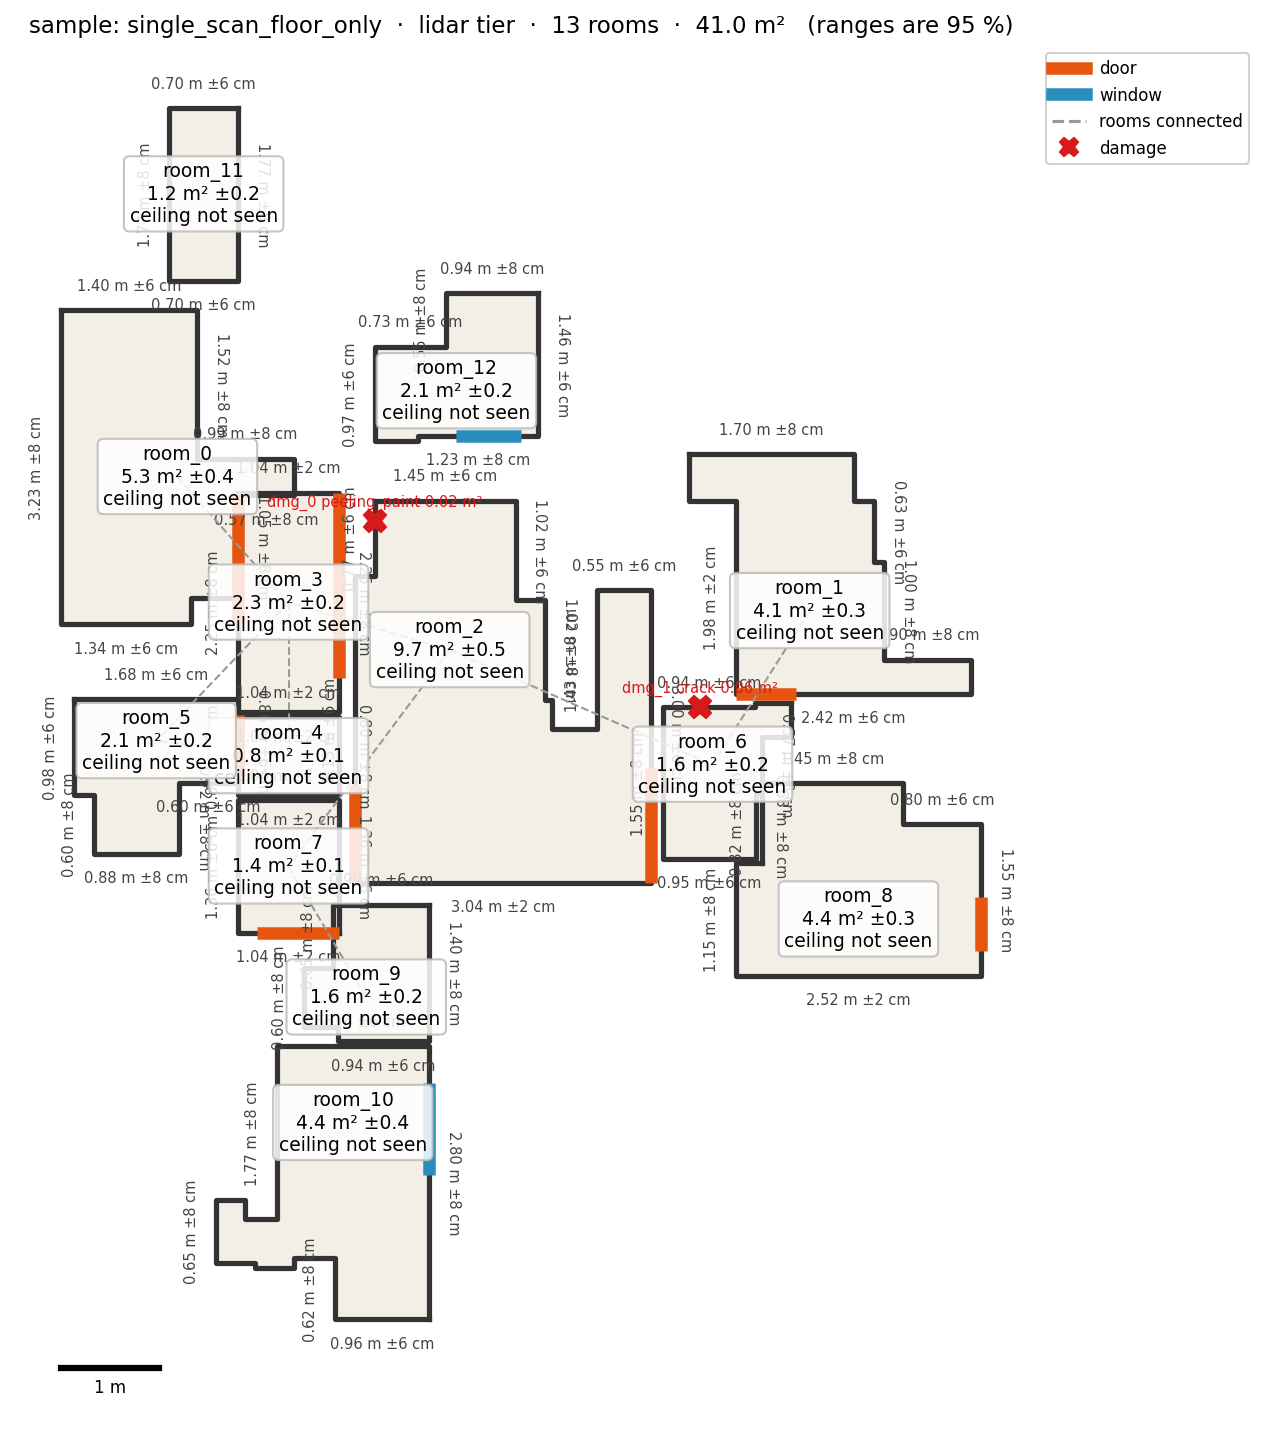
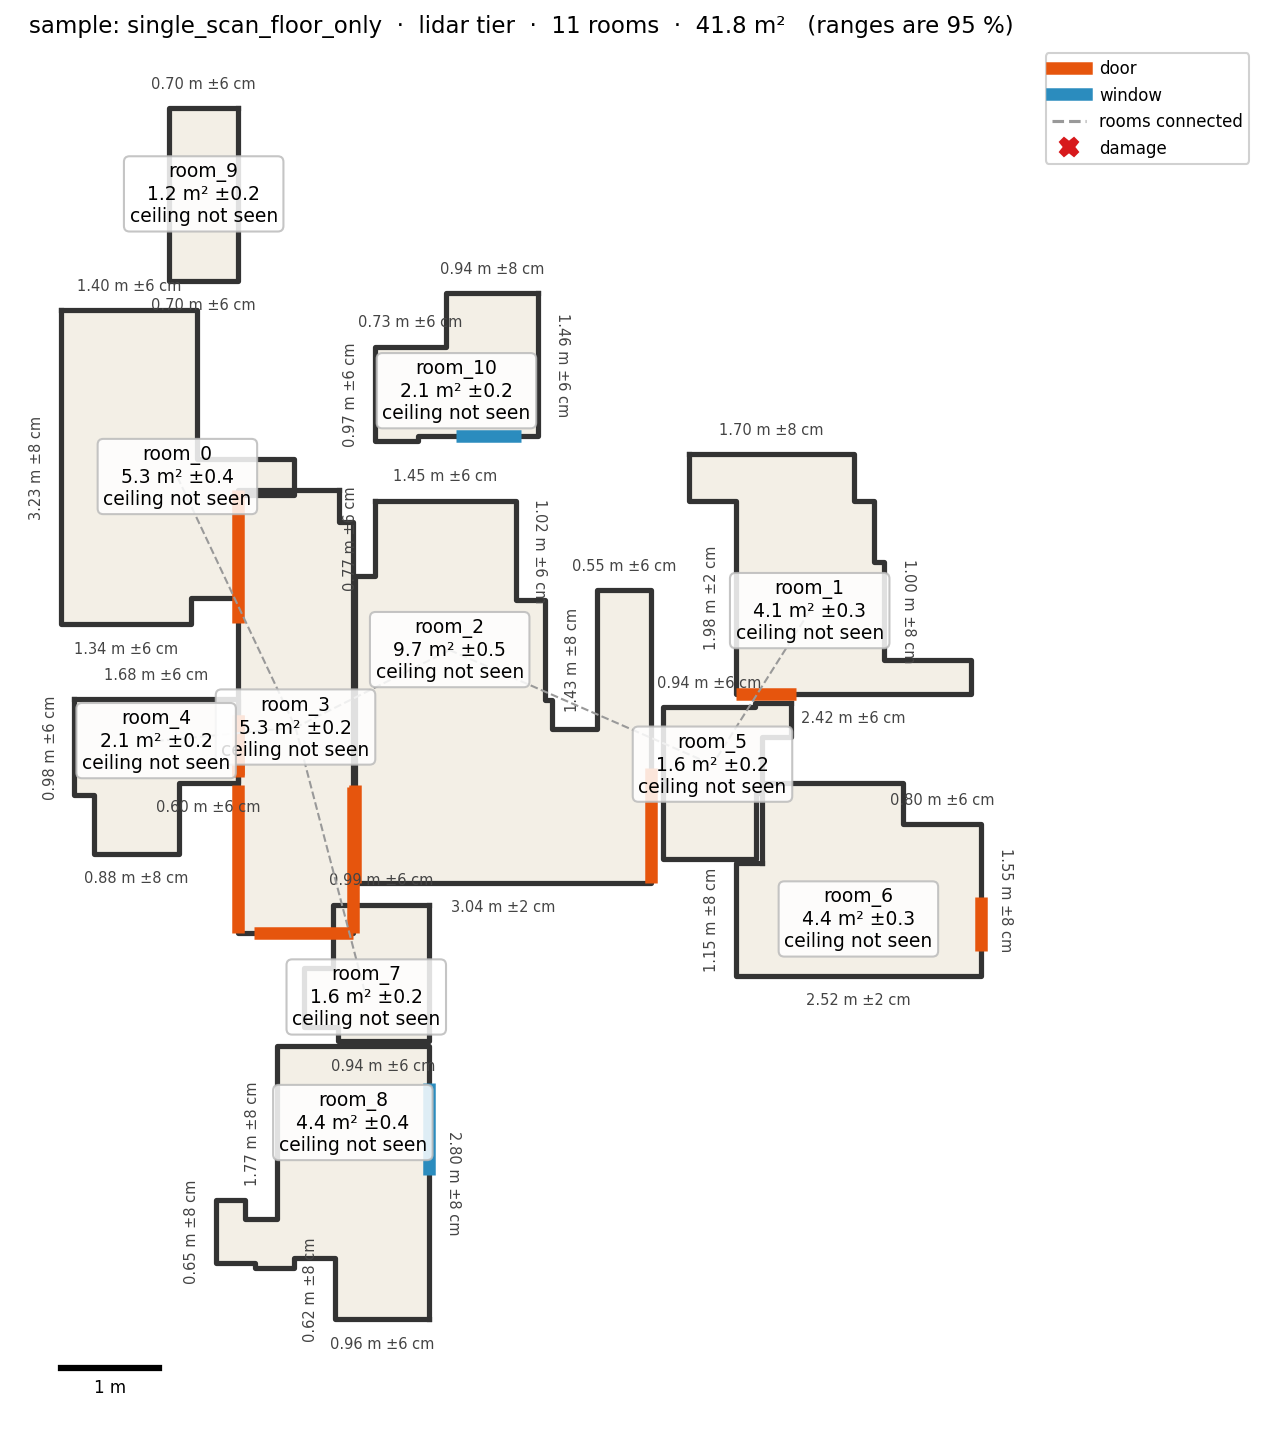
Room splitting: keep a corridor narrowed by a cupboard as one room (sample floor_only 13 -> 11 rooms)

diff --git a/roomscan/split_rooms.py b/roomscan/split_rooms.py
@@ -56,6 +56,7 @@ def split_rooms(classes, angle, cell=0.05, core=0.45, min_area=1.0, small_area=0
     cv2.watershed(cv2.cvtColor(free * 255, cv2.COLOR_GRAY2BGR), markers)
     rooms = [(markers == k) & (free > 0) for k in range(1, n)]
     rooms = _merge_open(rooms, merge_len, cell)
+    rooms = _merge_corridor(rooms, cell)
     rooms = _grow_to_walls([_fill_holes(m) for m in rooms], grow=2)
     keep = []
     for m in rooms:
@@ -83,6 +84,51 @@ def _grow_to_walls(rooms, grow):
         taken |= g
         out.append(g)
     return out
+
+
+CORRIDOR_WIDTH = 1.1      # m: a piece narrower than this (widest inscribed circle, before the wall band is given back) is corridor-like
+CORRIDOR_JOIN = 0.7       # two corridor-like pieces touching along this share of the wider one's width are one space
+
+
+def _width(mask, cell):
+    padded = np.pad(mask.astype(np.uint8), 1)              # the grid edge counts as outside the piece
+    return cv2.distanceTransform(padded, cv2.DIST_L2, 5).max() * cell * 2
+
+
+def _contact_length(band, cell):
+    """Length of the strip where two pieces touch: the long side of its tightest rotated box."""
+    ys, xs = np.nonzero(band)
+    if len(xs) < 3:
+        return 0.0
+    (_, _), (w, h), _ = cv2.minAreaRect(np.c_[xs, ys].astype(np.float32))
+    return (max(w, h) + 1) * cell
+
+
+def _merge_corridor(rooms, cell):
+    """A corridor narrowed by a cupboard or pillar is cut by the watershed into segments that meet along their
+    full width. A real door is narrower than the spaces it joins (a WC door is much narrower than the corridor it
+    opens onto), so two pieces are merged only when both are corridor-narrow and they touch along most of the
+    wider one's width."""
+    k = np.ones((5, 5), np.uint8)
+    merged = True
+    while merged:
+        merged = False
+        widths = [_width(m, cell) for m in rooms]
+        for i in range(len(rooms)):
+            if widths[i] >= CORRIDOR_WIDTH:
+                continue
+            grown = cv2.dilate(rooms[i].astype(np.uint8), k) > 0
+            for j in range(i + 1, len(rooms)):
+                if widths[j] >= CORRIDOR_WIDTH:
+                    continue
+                if _contact_length(grown & rooms[j], cell) >= CORRIDOR_JOIN * max(widths[i], widths[j]):
+                    rooms[i] = rooms[i] | rooms[j]
+                    del rooms[j]
+                    merged = True
+                    break
+            if merged:
+                break
+    return rooms
 
 
 def _merge_open(rooms, merge_len, cell):

diff --git a/tests/test_split_rooms.py b/tests/test_split_rooms.py
@@ -73,3 +73,35 @@ def test_narrow_corridor_between_rooms_is_its_own_room():
     areas = sorted(m.sum() * g.cell ** 2 for m in rooms)
     assert len(rooms) == 3
     np.testing.assert_allclose(areas, [2.7, 9.0, 9.0], rtol=0.2)
+
+
+def test_corridor_pinched_by_a_wall_stub_stays_one_room():
+    # a 1.15 m corridor narrowed to 0.9 m over 0.3 m (a cupboard or pillar): still one space, not two rooms
+    fp = [(0, 0), (6, 0), (6, 1.15), (3.15, 1.15), (3.15, 0.9), (2.85, 0.9), (2.85, 1.15), (0, 1.15)]
+    rooms, g = _split(room_points(fp, 2.5))
+    assert len(rooms) == 1
+
+
+
+def _box(shape, r0, r1, c0, c1):
+    m = np.zeros(shape, bool)
+    m[r0:r1, c0:c1] = True
+    return m
+
+
+def test_corridor_merge_keeps_a_wc_behind_a_narrow_door():
+    from roomscan.split_rooms import _merge_corridor
+    shape, cell = (140, 60), 0.05
+    # widths as split_rooms sees them, before the wall band is given back (about 0.2 m less than real)
+    corridor = _box(shape, 0, 120, 0, 18)                          # 0.9 m wide, 6 m long
+    wc = _box(shape, 40, 64, 19, 34)                               # 0.75 m wide, 1.2 m deep, 1 cell gap (watershed line)
+    wc[:, 19] = False
+    wc[44:56, 19] = True                                           # touches the corridor along 0.6 m only (the door)
+    assert len(_merge_corridor([corridor, wc], cell)) == 2
+
+
+def test_corridor_merge_joins_two_segments_of_one_corridor():
+    from roomscan.split_rooms import _merge_corridor
+    shape, cell = (140, 60), 0.05
+    a, b = _box(shape, 0, 60, 0, 18), _box(shape, 61, 120, 0, 18)  # one corridor (0.9 m before the wall band) cut in two
+    assert len(_merge_corridor([a, b], cell)) == 1

diff --git a/docs/technical_report.md b/docs/technical_report.md
@@ -18,7 +18,7 @@ room shapes and windows are not, and doors are 3-10 cm too wide (see section 8 a
 
 ![LiDAR tier on the sample flat](images/lidar_floor_plan.png)
 
-*Figure 2. LiDAR tier on the provided sample flat. The flat is split into 13 pieces, more than its real rooms,
+*Figure 2. LiDAR tier on the provided sample flat. The flat is split into 11 pieces, more than its real rooms,
 because furniture and short wall gaps break rooms apart. There is no ground truth for this flat.*
 
 ```
@@ -72,7 +72,9 @@ one page (`docs/capture_protocol.md`). Measured accuracy per tier is in `docs/de
 - **Plane fitting.** Plain RANSAC found fake "floors" at every height, because a horizontal plane cuts through
   every wall in a thin band. Requiring each point's surface normal to agree with the plane removed them and
   raised the wall count from 3 to 32 on the sample.
-- **Room splitting.** Only tall obstacles split rooms, so kitchen counters and beds do not. Small rooms closed
+- **Room splitting.** Only tall obstacles split rooms, so kitchen counters and beds do not. A corridor narrowed by
+  a cupboard is kept as one room: two narrow pieces that touch along most of their width are merged, while a
+  door, which is narrower than the spaces it joins, still separates rooms. Small rooms closed
   by walls, such as a toilet, are kept.
 - **Openings.** A wall is only called open where a depth ray passed through it. A wall that was never seen is
   not an opening.

diff --git a/docs/benchmark_report.md b/docs/benchmark_report.md
@@ -92,12 +92,14 @@ ranges are wide.
 
 | Capture | Rooms | Connections | Runtime |
 |---|---|---|---|
-| single_room | 2 | 1 | 20 s |
-| floor_only | 13 | 9 | 56 s |
-| with_ceiling | 9 | 3 | 82 s |
+| single_room | 2 | 1 | 16 s |
+| floor_only | 11 | 6 | 36 s |
+| with_ceiling | 9 | 3 | 57 s |
 
-- Repeatability: the two whole-floor scans are of the same flat. 0 of 14 matched walls agree within 1 cm.
-- Ceilings observed in with_ceiling: 2.34-3.21 m.
+- Repeatability: the two whole-floor scans are of the same flat. 1 of 47 matched walls agrees within 1 cm.
+- A corridor narrowed by a cupboard is no longer cut into pieces: floor_only went from 13 to 11 rooms, with_ceiling
+  stays at 9. Our home's photo-tier numbers are unchanged.
+- Ceilings observed in with_ceiling: 8 of 9 rooms, 2.19-3.06 m.
 - Damage false alarms on the undamaged flat: 0, 2 and 3 regions.
 - Drift ablation: see section 5 of the technical report.
 
@@ -120,7 +122,7 @@ Laptop with an RTX 2000 Ada (8 GB) and 20 CPU threads.
 
 | Run | Time |
 |---|---|
-| LiDAR, one room / whole floor | 20 s / 56-82 s, plus about 80 s for damage |
+| LiDAR, one room / whole floor | 16 s / 36-57 s, plus about 80 s for damage |
 | Photo, 4 rooms, 24 photos and 4 door photos, with damage | 142 s |
 | Video, 68 s walkthrough | 35 s back end plus 102 s damage; VGGT takes 5.4 s per 20 frames |
 | Full reproduction, CPU part | about 17 min |

diff --git a/docs/compliance_matrix.md b/docs/compliance_matrix.md
@@ -47,7 +47,7 @@ repeatability, wall lengths). The fifth is the comparison with a consumer app, w
 |---|---|---|---|
 | 2.15 | Openings within 2 cm on 85 % | 0 of 9; doors from straight-on photos are 3-10 cm too wide, windows wrong | Not met |
 | 2.16 | Ceiling height within 1.5 cm; say whether biased or unrepeatable | both: video 0.6-0.9 m low, photos 0.5-1.6 m high, bedroom takes differ by 25 cm; no capture saw the ceiling | Not met |
-| 2.17 | Same room twice within 1 cm per wall | video 0 of 3 walls; LiDAR sample 0 of 14 | Not met |
+| 2.17 | Same room twice within 1 cm per wall | video 0 of 3 walls; LiDAR sample 1 of 47 | Not met |
 | 2.18 | Drift method and on/off comparison | technical report section 5 | Met |
 | 2.19 | Photo stitch: adjacency, no overlap, footprint ±8 % | 3 of 3 door connections, right order, no overlap, +6 % | Met |
 | 2.20 | Wall lengths: photo ±8 %, video ±3 % | photo 2 of 16 walls; video rooms −31 % to +92 % | Not met |
